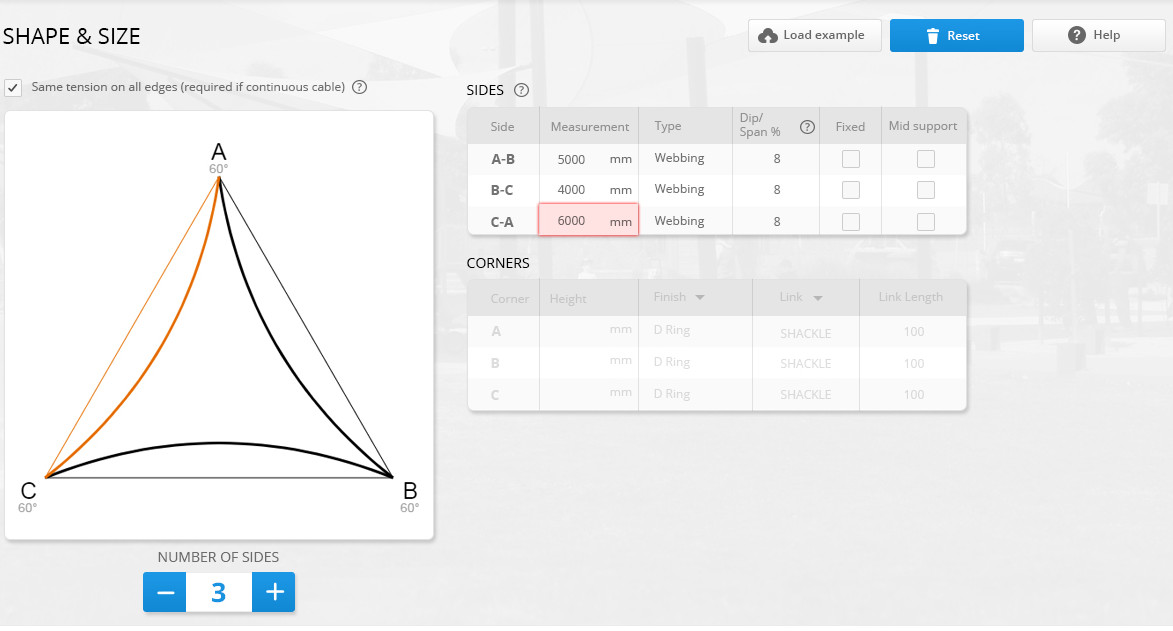
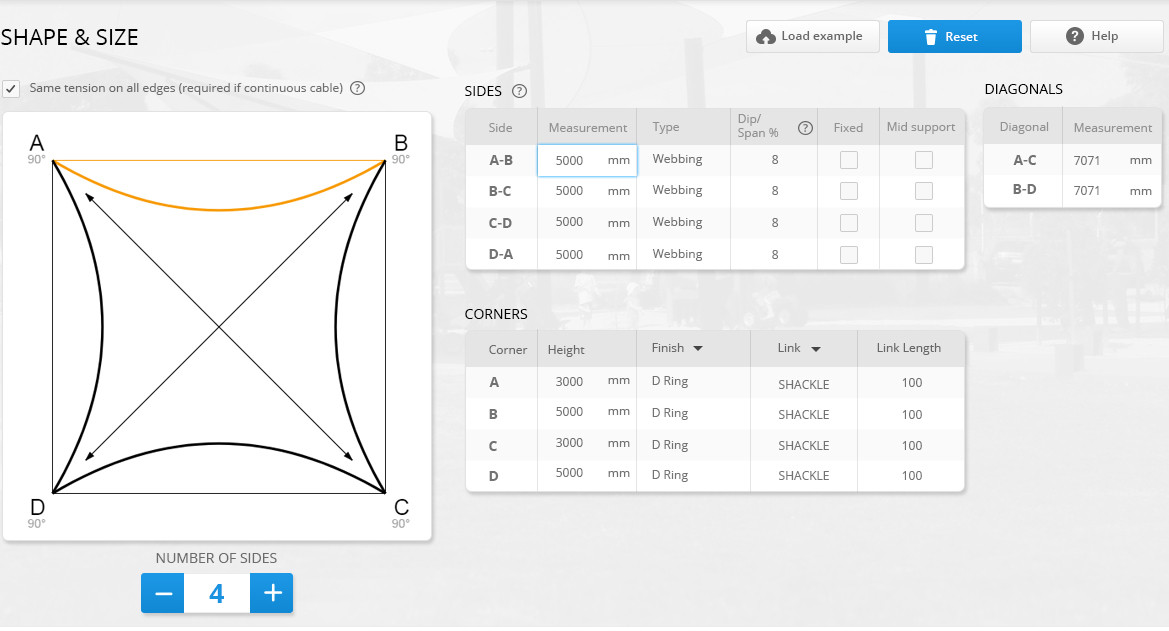
update

diff --git a/script/shapeSize.js b/script/shapeSize.js
@@ -59,7 +59,9 @@ function ShapeSize (argument) {
 	this.createInfoRight = function(right_path){
 		var num_edge = 3;
 
-		var cont_sides = dom.div('cont_sides', right_path);
+		var cont_sides_diagonals = dom.div('cont_sides_diagonals',right_path )
+
+		var cont_sides = dom.div('cont_sides', cont_sides_diagonals);
 		var title = dom.div('title_cont', cont_sides);
 		dom.text(title, 'sides');
 
@@ -107,6 +109,30 @@ function ShapeSize (argument) {
 			}
 		}
 
+		var cont_diagonals = dom.div('cont_diagonals', cont_sides_diagonals);
+		var title = dom.div('title_cont', cont_diagonals);
+		dom.text(title, 'diagonals');
+		this.cont_diagonals = cont_diagonals;
+
+		var cont_table_diagonals = dom.div('cont_table_diagonals', cont_diagonals);
+		var table_diagonals = dom.elem('table', 'table_diagonals', cont_table_diagonals);
+		var thead_diagonals = dom.elem('thead', 'thead_diagonals', table_diagonals);
+		var tbody_diagonals = dom.elem('tbody', 'tbody_diagonals', table_diagonals);
+		this.tbody_diagonals = tbody_diagonals;
+
+		var tr_head_diagonals = dom.elem('tr', '', thead_diagonals);
+		var arr_diagonals = [{
+			'text':'Diagonal',
+			'id': 'diagonal'
+		}, {
+			'text':'Measurement',
+			'id': 'measurement'
+		}];
+
+		for(var i = 0; i < arr_diagonals.length; i++){
+			var td = dom.elem('td' , arr_diagonals[i].id, tr_head_diagonals);
+			dom.text(td, arr_diagonals[i].text);
+		};
 
 		var cont_corners = dom.div('cont_corners', right_path);
 		var title = dom.div('title_cont', cont_corners);
@@ -153,6 +179,7 @@ function ShapeSize (argument) {
 		dom.addclass(this.cont_figure_tension, 't_'+num)
 
 		this.createSides(num);
+		this.createDiagonals(num);
 		this.createCorners(num);
 
 	};
@@ -162,6 +189,13 @@ function ShapeSize (argument) {
 		while(tbody_sides.children.length){
 			tbody_sides.removeChild(tbody_sides.children[0])
 		}
+
+		var tbody_diagonals = this.tbody_diagonals;
+
+		while(tbody_diagonals.children.length){
+			tbody_diagonals.removeChild(tbody_diagonals.children[0])
+		}
+		
 		var tbody_corners = this.tbody_corners;
 
 		while(tbody_corners.children.length){
@@ -209,6 +243,50 @@ function ShapeSize (argument) {
 			input_mid.id= "mid_"+id;
 			label_mid.setAttribute('for', "mid_"+id)
 		}
+	};
+
+	this.createDiagonals = function(num){
+		var tbody_diagonals = this.tbody_diagonals;
+		var alf = lang.substr(0, num).split("");
+		if(num < 4){
+			dom.visible(this.cont_diagonals, false)
+			return
+		}
+
+		dom.visible(this.cont_diagonals, true)
+		var num_diag = num == 4 ? 2 : 5;
+		var arr = [];
+		if(num == 4){
+			arr.push(['A', 'C']);
+			arr.push(['B', 'D']);
+		} else if(num == 5){
+			arr.push(['A', 'E']);
+			arr.push(['A', 'D']);
+			arr.push(['B', 'D']);
+			arr.push(['B', 'E']);
+			arr.push(['C', 'E']);
+		} else if(num == 6){
+			arr.push(['A', 'E']);
+			arr.push(['B', 'D']);
+			arr.push(['B', 'E']);
+			arr.push(['B', 'F']);
+			arr.push(['C', 'E']);
+		};
+
+		for(var i = 0; i < num_diag; i++){
+			var txt = arr[i];
+			var tr = dom.elem('tr', '', tbody_diagonals);
+			
+			var td_corner = dom.elem('td', 'td_diag', tr);
+			dom.text(td_corner, txt.join('-'));
+
+			var td_meas = dom.elem('td', 'td_meas', tr);
+			var div_m_val = dom.div('div_m_val', td_meas);
+			var div_m_red = dom.div('div_m_red', td_meas);
+			dom.text(div_m_red, 'mm');
+		}
+
+
 	};
 	this.createCorners = function(num){
 		var tbody_corners = this.tbody_corners;

diff --git a/style/shape_size.css b/style/shape_size.css
@@ -1,6 +1,6 @@
 .page_shape {
 	/*background-image: url(../image/bg_shape.jpg);*/
-    background-position: -1px -4px;
+	background-position: 1px -5px;
 }
 
 .cont_left_btn .my_btn{
@@ -189,6 +189,11 @@
 }
 
 
+.cont_sides_diagonals > div{
+	display: inline-block;
+	vertical-align: top;
+}
+
 .title_cont {
 	font-size: 14px;
 	text-transform: uppercase;
@@ -205,31 +210,47 @@
     overflow: hidden;
     box-shadow: 2px 2px 5px grey;
 }
+.cont_table_sides {
+	margin-right: 19px;
+}
+.cont_table_diagonals {
+	margin-top: 2px;
+	width: 178px;
+	border-radius: 5px;
+    overflow: hidden;
+    box-shadow: 2px 2px 5px grey;
+}
 .table_sides,
+.table_diagonals,
 .table_corners {
 	width: 100%;
 
 }
 
 .thead_sides,
+.thead_diagonals,
 .thead_corners{
 	color: #929292;
 	background-color: #e5e5e5;
 }
 
 .tbody_sides,
+.tbody_diagonals,
 .tbody_corners{
 		color: #717171 !important;
 }
 
 .thead_sides td,
+.thead_diagonals td,
 .thead_corners td{
 
 	border-right: 1px solid #CECECE;
 	height: 35px;
 	font-size: 12px;
 }
-.thead_sides td:last-child{
+.thead_sides td:last-child,
+.thead_diagonals td:last-child,
+.thead_corners td:last-child{
 	border-right:  none;
 	text-indent: 7px;
 }
@@ -270,12 +291,14 @@
 }
 
 .table_sides .td_meas > div,
+.table_diagonals .td_meas > div,
 .table_corners .td_height > div {
 	display: table-cell;
 	vertical-align: middle;
 }
 
 .table_sides tbody tr td,
+.table_diagonals tbody tr td,
 .table_corners tbody tr td {
 	border-right: 1px solid #e1e1e1;
 	color:#8b8b8b;
@@ -285,6 +308,7 @@
 	border-right: none;
 }
 .table_corners .td_height .div_h_val,
+.table_diagonals .td_meas .div_m_val,
 .table_sides .td_meas .cont_meas{
 	padding-left: 16px;
 }
@@ -299,14 +323,19 @@
 	box-shadow: none;
 }
 .table_sides .td_side,
+.table_diagonals .td_diag,
 .table_corners .td_corner {
 	font-weight: bold;
 	color: #696969;
 	text-align: center;
 }
 .table_corners .td_height .div_h_red,
+.table_diagonals .td_meas .div_m_red,
 .table_sides .td_meas .val_red{
 	padding-left: 3px;
+}
+.table_diagonals tr {
+	height: 32px;
 }
 
 
@@ -323,10 +352,12 @@
 }
 
 .table_sides tbody tr:nth-child(odd),
+.table_diagonals tbody tr:nth-child(odd),
 .table_corners tbody tr:nth-child(odd) {
 	background-color: #fafafa;
 }
 .table_sides tbody tr:nth-child(even),
+.table_diagonals tbody tr:nth-child(even),
 .table_corners tbody tr:nth-child(even) {
 	background-color: #fff;
 }
@@ -361,6 +392,9 @@
 .table_corners .td_height .div_h_val {
 	width: 50px;
 }
+.table_diagonals .td_meas .div_m_val {
+	width: 48px;
+}
 
 .table_corners .td_finish{
 	text-indent: 15px;
@@ -386,4 +420,14 @@
 }
 .cont_figure.t_6 {
 	background-image: url(../image/triangle/t_6.jpg);
+}
+
+
+.thead_diagonals td.diagonal{
+    width: 76px;
+    text-indent: 15px;
+}
+
+.thead_diagonals td.measurement{
+	text-indent: 10px;
 }
